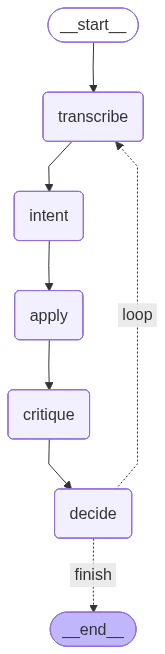
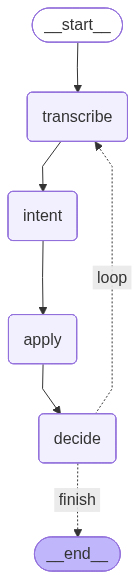
New Graph/Agent

Changed region(s): [[0.0286, 0.0, 0.9143, 0.9948], [0.1714, 0.1554, 0.2, 0.2487], [0.2286, 0.0311, 0.2571, 0.0622]]

diff --git a/agent/nodes.py b/agent/nodes.py
@@ -9,8 +9,8 @@ EMAIL_RE = re.compile(r"[A-Za-z0-9._%+-]+@[A-Za-z0-9.-]+\.[A-Za-z]{2,}")
 
 # Helpers
 def make_llm():
-    model = "qwen3:1.7b"
-    return ChatOllama(model=model)
+    model = "qwen3:8b"
+    return ChatOllama(model=model, temperature=0.15, num_ctx=8192)
 
 def make_structured_llm() -> Any:
     return make_llm().with_structured_output(Plan)
@@ -20,9 +20,10 @@ def transcribe_node(state: Dict) -> Dict:
     """Simulates STT"""
     print("\n🎤 Input:")
     print("   - subject: ... | to: ... | cc: ... | tone: friendly/formal/neutral")
-    print("   - fix grammar | approve/finalize/finish | add text → gets appended")
+    print("   - precise edits: 'remove second paragraph', 'tone formal', 'to: alice@ex.com'")
     user_text = input("> ").strip()
-    return {"transcript": user_text}
+    if user_text:
+        return {"transcript": user_text}
 
 def intent_node(state: Dict) -> Dict:
     """
@@ -47,19 +48,35 @@ def intent_node(state: Dict) -> Dict:
 
     # System Prompt
     sys = SystemMessage(content=(
-        "You are an assistant that converts user instructions into a STRICT JSON plan "
-        "matching the provided Pydantic schema. "
-        "Only extract information present; if missing, use null. "
-        "Validate emails. No extra commentary—only the JSON structure."
+        "You output a STRICT Plan (Pydantic schema). Rules:\n"
+        "BODY\n"
+        "• Always return a FULL updated body (replace) derived from CURRENT body.\n"
+        "• Apply ONLY the specific changes the user asked for; keep everything else EXACTLY the same.\n"
+        "• Do NOT add disclaimers, warnings, signatures, or boilerplate unless explicitly requested.\n"
+        "• If the user says “reset / start over / rewrite completely”, you may discard the current body.\n"
+        "RECIPIENTS\n"
+        "• Change to/cc ONLY if user explicitly provides emails or uses “to:”/“send to …” or “cc:”/“add cc …”.\n"
+        "• NEVER infer emails from names. NEVER set both to_set and to_add (same for cc).\n"
+        "SUBJECT/TONE\n"
+        "• Modify only if explicitly requested. Do NOT prefix “Re:” unless the user says it is a reply.\n"
+        "NAME\n"
+        "• If the user states their name, include it in the signature and replace “[Your Name]”.\n"
+        "OUTPUT\n"
+        "• Return ONLY the Plan JSON. Use null for fields you are NOT changing."
     ))
 
     # User Prompt
     user = HumanMessage(content=(
-        "Schema: Plan(approve: bool, updates: Updates("
+        "Schema: Plan(updates: Updates("
         "subject?: str|null, to_set?: [EmailStr]|null, to_add?: [EmailStr]|null, "
         "cc_set?: [EmailStr]|null, cc_add?: [EmailStr]|null, tone?: {'friendly'|'formal'|'neutral'}|null, "
-        "body?: BodyPlan(mode: {'replace'|'append'}|null, text?: str|null)"
+        "body?: BodyPlan(mode: 'replace'|null, text?: str|null)"
         "))\n\n"
+        "Apply requested changes MINIMALLY to the CURRENT draft; return the FULL updated body as 'replace'.\n"
+        "If the user says 'reset/start over/rewrite completely', you may produce a fresh body.\n"
+        "If no recipient change is requested, set to_* and cc_* to null.\n"
+        "NEVER set both to_set and to_add (or cc_set and cc_add) at the same time.\n"
+        "Do NOT introduce any disclaimers or boilerplate unless asked.\n\n"
         f"Current Draft: {curr_state}\n\n"
         f"Input: {transcript}"
     ))
@@ -91,15 +108,35 @@ def apply_node(state: Dict) -> Dict:
     cc_set = updates.get("cc_set")
     cc_add = updates.get("cc_add")
 
-    if isinstance(to_set, list):
-        out["to"] = list(dict.fromkeys(to_set))
-    elif isinstance(to_add, list) and to_add:
-        out["to"] = list(dict.fromkeys(curr_to + to_add))
+    def clean_emails(lst):
+        if not isinstance(lst, list):
+            return []
+        cleaned = []
+        for e in lst:
+            if isinstance(e, str):
+                s = e.strip().lower()
+                if EMAIL_RE.fullmatch(s):
+                    cleaned.append(s)
+        # dedupe preserving order
+        return list(dict.fromkeys(cleaned))
+
+    if isinstance(to_add, list) and to_add:
+        cleaned = clean_emails(curr_to + to_add)
+        if cleaned:
+            out["to"] = cleaned
+    elif isinstance(to_set, list):
+        cleaned = clean_emails(to_set)
+        if cleaned:
+            out["to"] = cleaned
     
-    if isinstance(cc_set, list):
-        out["cc"] = list(dict.fromkeys(cc_set))
-    elif isinstance(cc_add, list) and cc_add:
-        out["cc"] = list(dict.fromkeys(curr_cc + cc_add))
+    if isinstance(cc_add, list) and cc_add:
+        cleaned = clean_emails(curr_cc + cc_add)
+        if cleaned:
+            out["cc"] = cleaned
+    elif isinstance(cc_set, list):
+        cleaned = clean_emails(cc_set)
+        if cleaned:
+            out["cc"] = cleaned
 
     # Tone
     tone = updates.get("tone")
@@ -114,42 +151,11 @@ def apply_node(state: Dict) -> Dict:
     if isinstance(text, str) and text.strip():
         if mode == "replace":
             out["body"] = text.strip()
-        elif mode == "append":
-            body = state.get("body", "") or ""
-            out["body"] = (body + ("\n\n" if body else "") + text.strip()).strip()
     
     return out
 
-def critique_node(state: Dict) -> Dict:
-    """
-    Optional light smoothing—only when the body was just modified.
-    (You can also disable it for now by returning {}.)
-    """
-    intent = state.get("intent", {}) or {}
-    body_plan = (intent.get("updates", {}) or {}).get("body") or {}
-    if not body_plan.get("text"):
-        return {}
-    
-    body = state.get("body", "") or ""
-    if not body.strip():
-        return {}
-    
-    llm = make_llm()
-
-    # System Prompt
-    sys = SystemMessage(content=(
-        "Lightly edit the following email for clarity and grammar. "
-        "Preserve meaning and user's voice. Only return the improved body."
-    ))
-
-    # User Prompt
-    user = HumanMessage(content=body)
-
-    improved = llm.invoke([sys, user]).content.strip()
-    return {"body": improved} if improved else {}
-
 def decide_node(state: Dict) -> Dict:
-    intent = state.get("intent", {}) or {}
-    if bool(intent.get("approve", False)):
-        return {"satisfied": True}
-    return {}
+    """MVP: CLI/UX-Decision: 1=continue editing, 2=finished. Needs to be updated for UI."""
+    print("\nAction: [1] continue   [2] exit")
+    choice = input("Choose 1 or 2: ").strip()
+    return {"done": choice == "2"}

diff --git a/agent/graph.py b/agent/graph.py
@@ -1,6 +1,6 @@
 from langgraph.graph import StateGraph, END
 from .state import DraftState
-from .nodes import transcribe_node, intent_node, apply_node, critique_node, decide_node
+from .nodes import transcribe_node, intent_node, apply_node, decide_node
 
 def build_graph():
     g = StateGraph(DraftState)
@@ -8,17 +8,15 @@ def build_graph():
     g.add_node("transcribe", transcribe_node)
     g.add_node("intent", intent_node)
     g.add_node("apply", apply_node)
-    g.add_node("critique", critique_node)
     g.add_node("decide", decide_node)
 
     g.set_entry_point("transcribe")
     g.add_edge("transcribe", "intent")
     g.add_edge("intent", "apply")
-    g.add_edge("apply", "critique")
-    g.add_edge("critique", "decide")
+    g.add_edge("apply", "decide")
 
     def route(state: DraftState):
-        return "finish" if state.get("satisfied") else "loop"
+        return "finish" if state.get("done") else "loop"
     
     g.add_conditional_edges(
         "decide",

diff --git a/agent/schema.py b/agent/schema.py
@@ -1,22 +1,21 @@
 from typing import List, Optional, Literal
-from pydantic import BaseModel, EmailStr
+from pydantic import BaseModel
 
 Tone = Literal["friendly", "formal", "neutral"]
-BodyMode = Literal["replace", "append"]
+BodyMode = Literal["replace"] # For now only replace (experiment with other modes later)
 
 class BodyPlan(BaseModel):
-    mode: Optional[BodyMode] #= None?
+    mode: Optional[BodyMode]
     text: Optional[str]
 
 class Updates(BaseModel):
     body: Optional[BodyPlan]
     subject: Optional[str]
-    to_set: Optional[List[EmailStr]]
-    to_add: Optional[List[EmailStr]]
-    cc_set: Optional[List[EmailStr]]
-    cc_add: Optional[List[EmailStr]]
+    to_set: Optional[List[str]]
+    to_add: Optional[List[str]]
+    cc_set: Optional[List[str]]
+    cc_add: Optional[List[str]]
     tone: Optional[Tone]
 
 class Plan(BaseModel):
-    approve: bool
     updates: Updates

diff --git a/agent/state.py b/agent/state.py
@@ -1,7 +1,6 @@
-from typing import TypedDict, List, Optional
-#from pydantic import BaseModel, Field instead of TypedDict -> test later
+from typing import TypedDict, List, Optional, Dict, Any
 
-class DraftState(TypedDict): # maybe add total=False
+class DraftState(TypedDict):
     """Central, minimal state for the mail draft.
     - body: current email text
     - subject: subject line
@@ -18,7 +17,8 @@ class DraftState(TypedDict): # maybe add total=False
     tone: str
     transcript: str
     last_op: Optional[str]
-    satisfied: bool
+    done: bool
+    intent: Dict[str, Any]
 
 def initial_state() -> DraftState:
     return DraftState(
@@ -29,5 +29,6 @@ def initial_state() -> DraftState:
         tone="neutral",
         transcript="",
         last_op=None,
-        satisfied=False,
+        done=False,
+        intent={}
     )
